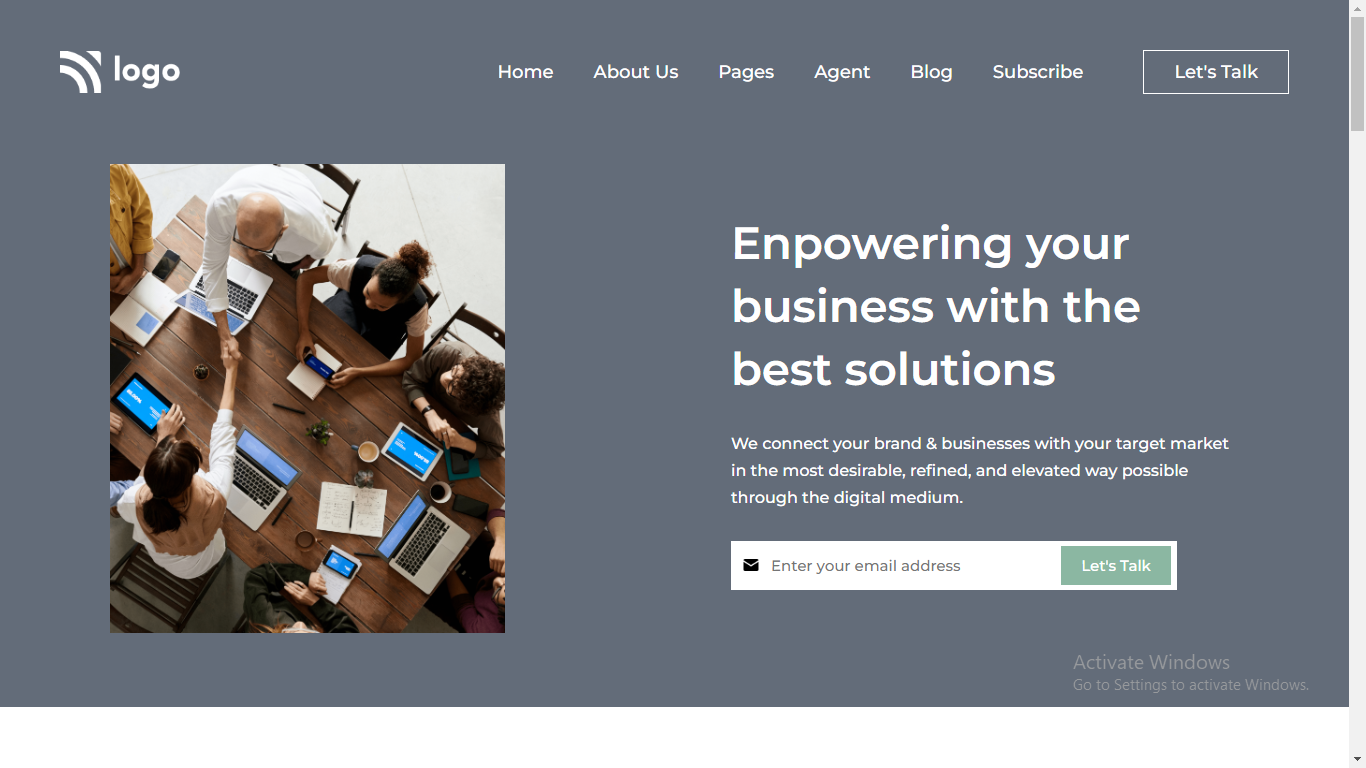
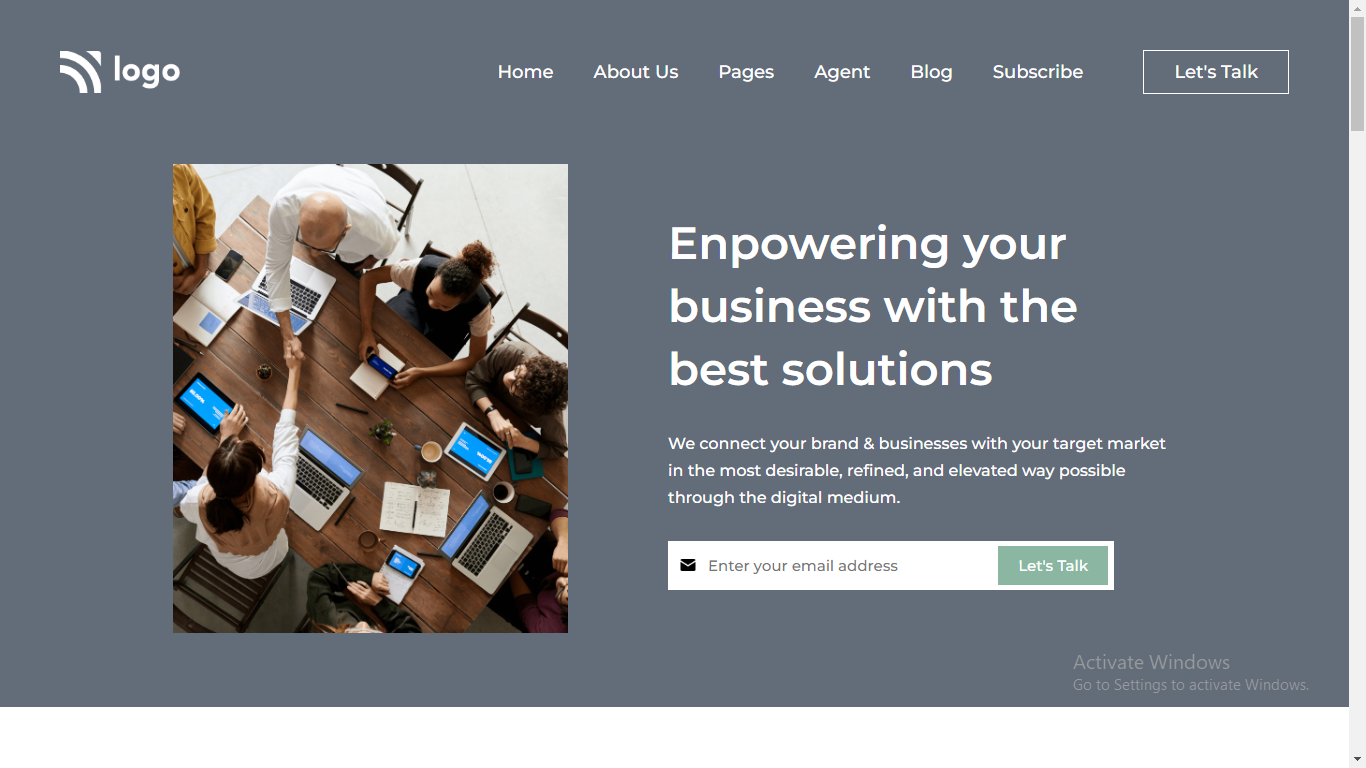
project updated

diff --git a/css/style.css b/css/style.css
@@ -101,8 +101,9 @@ header {
 
 .hero .container {
   display: flex;
-  justify-content: space-between;
+  justify-content: center;
   align-items: center;
+  gap: 100px;
 }
 
 .hero .image {
@@ -334,7 +335,7 @@ footer {
 }
 
 .footer-bottom li:first-child {
-  margin-bottom: 20px;
+  margin-bottom: 22px;
   font-size: 18px;
   font-weight: 500;
   color: #ffffff;
@@ -345,6 +346,6 @@ footer {
 }
 
 .footer-bottom ul li a {
-  font-size: 13px;
+  font-size: 14px;
   color: #ffffff;
 }

diff --git a/index.html b/index.html
@@ -4,6 +4,12 @@
     <meta charset="UTF-8" />
     <meta http-equiv="X-UA-Compatible" content="IE=edge" />
     <meta name="viewport" content="width=device-width, initial-scale=1.0" />
+    <link
+      rel="icon"
+      href="./assets/png-images/icons8-project-50.png"
+      type="image/png"
+    />
+
     <!-- Font awesome library -->
     <link
       rel="stylesheet"
